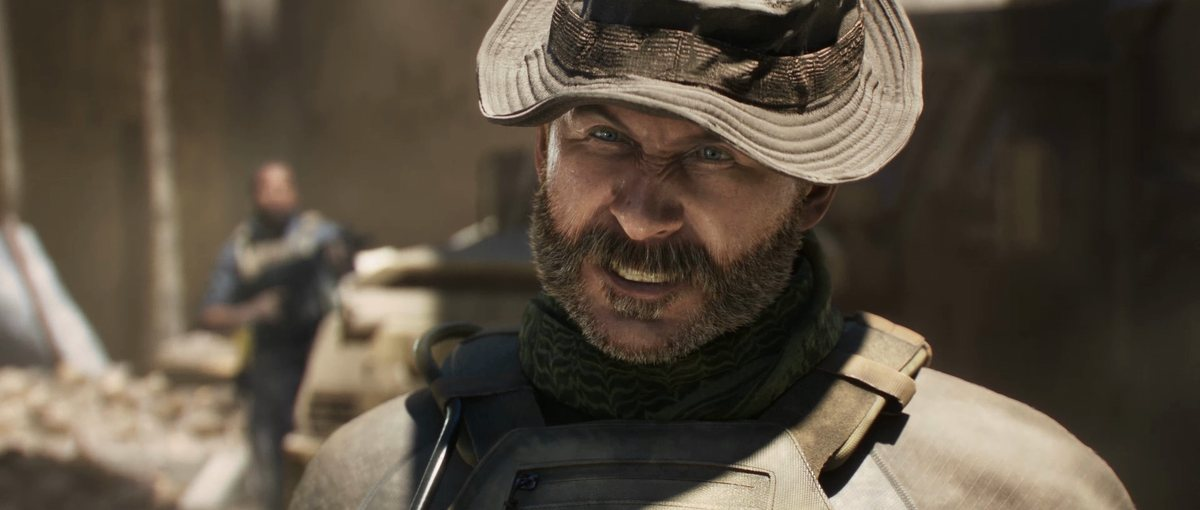
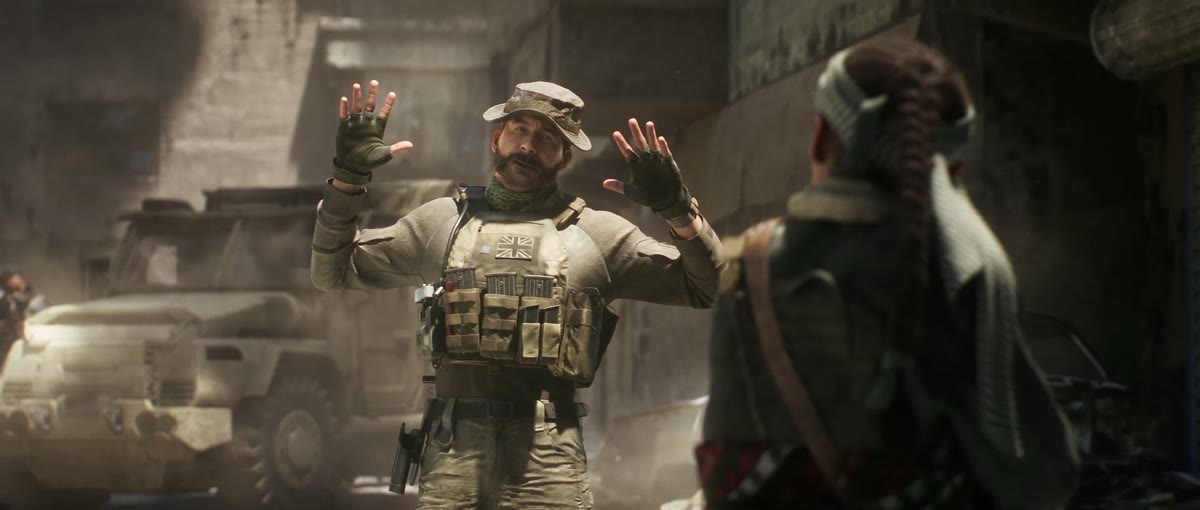
Remove The Village cutscene and change The Lab's cover
The eight-second title card is gone from the site and its release; the
Modern Warfare scenes are numbered again. The Lab shows Price with his
hands up.

diff --git a/cuts-data.js b/cuts-data.js
@@ -11,7 +11,7 @@ const MW_CAMPAIGN_PACKS = [
   "editions": {
    "4K": {
     "editionLabel": "4K",
-    "meta": "30:03 · 7.41 GB · 17 files",
+    "meta": "29:56 · 7.41 GB · 16 files",
     "files": [
      {
       "url": "https://github.com/Qstrx/noctis/releases/download/mw-campaign-scenes/MW1-Campaign-01-Verdansk-4K.mp4",
@@ -134,21 +134,9 @@ const MW_CAMPAIGN_PACKS = [
       "poster": "img/cod/cuts/mw1-10.jpg"
      },
      {
-      "url": "https://github.com/Qstrx/noctis/releases/download/mw-campaign-scenes/MW1-Campaign-11-The-Village-4K.mp4",
-      "name": "11 — The Village",
-      "scene": "11",
-      "run": "0:08",
-      "size": "1.9 MB",
-      "direct": true,
-      "audio": "No audio",
-      "resolution": "3840 × 1634",
-      "fps": "30 fps",
-      "poster": "img/cod/cuts/mw1-11.jpg"
-     },
-     {
       "url": "https://github.com/Qstrx/noctis/releases/download/mw-campaign-scenes/MW1-Campaign-12-St-Petersburg-4K.mp4",
-      "name": "12 — St. Petersburg",
-      "scene": "12",
+      "name": "11 — St. Petersburg",
+      "scene": "11",
       "run": "2:01",
       "size": "528.1 MB",
       "direct": true,
@@ -159,8 +147,8 @@ const MW_CAMPAIGN_PACKS = [
      },
      {
       "url": "https://github.com/Qstrx/noctis/releases/download/mw-campaign-scenes/MW1-Campaign-13-The-Estate-4K.mp4",
-      "name": "13 — The Estate",
-      "scene": "13",
+      "name": "12 — The Estate",
+      "scene": "12",
       "run": "1:45",
       "size": "370.9 MB",
       "direct": true,
@@ -171,8 +159,8 @@ const MW_CAMPAIGN_PACKS = [
      },
      {
       "url": "https://github.com/Qstrx/noctis/releases/download/mw-campaign-scenes/MW1-Campaign-14-The-Lab-4K.mp4",
-      "name": "14 — The Lab",
-      "scene": "14",
+      "name": "13 — The Lab",
+      "scene": "13",
       "run": "3:54",
       "size": "1.04 GB",
       "direct": true,
@@ -183,8 +171,8 @@ const MW_CAMPAIGN_PACKS = [
      },
      {
       "url": "https://github.com/Qstrx/noctis/releases/download/mw-campaign-scenes/MW1-Campaign-15-The-Lab-The-Sacrifice-4K.mp4",
-      "name": "15 — The Lab: The Sacrifice",
-      "scene": "15",
+      "name": "14 — The Lab: The Sacrifice",
+      "scene": "14",
       "run": "1:42",
       "size": "390.9 MB",
       "direct": true,
@@ -195,8 +183,8 @@ const MW_CAMPAIGN_PACKS = [
      },
      {
       "url": "https://github.com/Qstrx/noctis/releases/download/mw-campaign-scenes/MW1-Campaign-16-Epilogue-4K.mp4",
-      "name": "16 — Epilogue",
-      "scene": "16",
+      "name": "15 — Epilogue",
+      "scene": "15",
       "run": "1:59",
       "size": "534.5 MB",
       "direct": true,
@@ -207,8 +195,8 @@ const MW_CAMPAIGN_PACKS = [
      },
      {
       "url": "https://github.com/Qstrx/noctis/releases/download/mw-campaign-scenes/MW1-Campaign-17-Spec-Ops-Opening-4K.mp4",
-      "name": "17 — Spec Ops Opening",
-      "scene": "17",
+      "name": "16 — Spec Ops Opening",
+      "scene": "16",
       "run": "2:13",
       "size": "489.5 MB",
       "direct": true,
@@ -221,7 +209,7 @@ const MW_CAMPAIGN_PACKS = [
    },
    "2K": {
     "editionLabel": "2K",
-    "meta": "30:03 · 4.19 GB · 17 files",
+    "meta": "29:56 · 4.19 GB · 16 files",
     "files": [
      {
       "url": "https://github.com/Qstrx/noctis/releases/download/mw-campaign-scenes/MW1-Campaign-01-Verdansk-2K.mp4",
@@ -344,21 +332,9 @@ const MW_CAMPAIGN_PACKS = [
       "poster": "img/cod/cuts/mw1-10.jpg"
      },
      {
-      "url": "https://github.com/Qstrx/noctis/releases/download/mw-campaign-scenes/MW1-Campaign-11-The-Village-2K.mp4",
-      "name": "11 — The Village",
-      "scene": "11",
-      "run": "0:08",
-      "size": "0.4 MB",
-      "direct": true,
-      "audio": "No audio",
-      "resolution": "2560 × 1088",
-      "fps": "30 fps",
-      "poster": "img/cod/cuts/mw1-11.jpg"
-     },
-     {
       "url": "https://github.com/Qstrx/noctis/releases/download/mw-campaign-scenes/MW1-Campaign-12-St-Petersburg-2K.mp4",
-      "name": "12 — St. Petersburg",
-      "scene": "12",
+      "name": "11 — St. Petersburg",
+      "scene": "11",
       "run": "2:01",
       "size": "295.3 MB",
       "direct": true,
@@ -369,8 +345,8 @@ const MW_CAMPAIGN_PACKS = [
      },
      {
       "url": "https://github.com/Qstrx/noctis/releases/download/mw-campaign-scenes/MW1-Campaign-13-The-Estate-2K.mp4",
-      "name": "13 — The Estate",
-      "scene": "13",
+      "name": "12 — The Estate",
+      "scene": "12",
       "run": "1:45",
       "size": "254.9 MB",
       "direct": true,
@@ -381,8 +357,8 @@ const MW_CAMPAIGN_PACKS = [
      },
      {
       "url": "https://github.com/Qstrx/noctis/releases/download/mw-campaign-scenes/MW1-Campaign-14-The-Lab-2K.mp4",
-      "name": "14 — The Lab",
-      "scene": "14",
+      "name": "13 — The Lab",
+      "scene": "13",
       "run": "3:54",
       "size": "565.7 MB",
       "direct": true,
@@ -393,8 +369,8 @@ const MW_CAMPAIGN_PACKS = [
      },
      {
       "url": "https://github.com/Qstrx/noctis/releases/download/mw-campaign-scenes/MW1-Campaign-15-The-Lab-The-Sacrifice-2K.mp4",
-      "name": "15 — The Lab: The Sacrifice",
-      "scene": "15",
+      "name": "14 — The Lab: The Sacrifice",
+      "scene": "14",
       "run": "1:42",
       "size": "228.1 MB",
       "direct": true,
@@ -405,8 +381,8 @@ const MW_CAMPAIGN_PACKS = [
      },
      {
       "url": "https://github.com/Qstrx/noctis/releases/download/mw-campaign-scenes/MW1-Campaign-16-Epilogue-2K.mp4",
-      "name": "16 — Epilogue",
-      "scene": "16",
+      "name": "15 — Epilogue",
+      "scene": "15",
       "run": "1:59",
       "size": "275.3 MB",
       "direct": true,
@@ -417,8 +393,8 @@ const MW_CAMPAIGN_PACKS = [
      },
      {
       "url": "https://github.com/Qstrx/noctis/releases/download/mw-campaign-scenes/MW1-Campaign-17-Spec-Ops-Opening-2K.mp4",
-      "name": "17 — Spec Ops Opening",
-      "scene": "17",
+      "name": "16 — Spec Ops Opening",
+      "scene": "16",
       "run": "2:13",
       "size": "229.7 MB",
       "direct": true,
@@ -431,7 +407,7 @@ const MW_CAMPAIGN_PACKS = [
    },
    "1080p": {
     "editionLabel": "1080p",
-    "meta": "30:03 · 2.38 GB · 17 files",
+    "meta": "29:56 · 2.38 GB · 16 files",
     "files": [
      {
       "url": "https://github.com/Qstrx/noctis/releases/download/mw-campaign-scenes/MW1-Campaign-01-Verdansk-1080p.mp4",
@@ -554,21 +530,9 @@ const MW_CAMPAIGN_PACKS = [
       "poster": "img/cod/cuts/mw1-10.jpg"
      },
      {
-      "url": "https://github.com/Qstrx/noctis/releases/download/mw-campaign-scenes/MW1-Campaign-11-The-Village-1080p.mp4",
-      "name": "11 — The Village",
-      "scene": "11",
-      "run": "0:08",
-      "size": "0.2 MB",
-      "direct": true,
-      "audio": "No audio",
-      "resolution": "1920 × 816",
-      "fps": "30 fps",
-      "poster": "img/cod/cuts/mw1-11.jpg"
-     },
-     {
       "url": "https://github.com/Qstrx/noctis/releases/download/mw-campaign-scenes/MW1-Campaign-12-St-Petersburg-1080p.mp4",
-      "name": "12 — St. Petersburg",
-      "scene": "12",
+      "name": "11 — St. Petersburg",
+      "scene": "11",
       "run": "2:01",
       "size": "168.0 MB",
       "direct": true,
@@ -579,8 +543,8 @@ const MW_CAMPAIGN_PACKS = [
      },
      {
       "url": "https://github.com/Qstrx/noctis/releases/download/mw-campaign-scenes/MW1-Campaign-13-The-Estate-1080p.mp4",
-      "name": "13 — The Estate",
-      "scene": "13",
+      "name": "12 — The Estate",
+      "scene": "12",
       "run": "1:45",
       "size": "143.5 MB",
       "direct": true,
@@ -591,8 +555,8 @@ const MW_CAMPAIGN_PACKS = [
      },
      {
       "url": "https://github.com/Qstrx/noctis/releases/download/mw-campaign-scenes/MW1-Campaign-14-The-Lab-1080p.mp4",
-      "name": "14 — The Lab",
-      "scene": "14",
+      "name": "13 — The Lab",
+      "scene": "13",
       "run": "3:54",
       "size": "322.9 MB",
       "direct": true,
@@ -603,8 +567,8 @@ const MW_CAMPAIGN_PACKS = [
      },
      {
       "url": "https://github.com/Qstrx/noctis/releases/download/mw-campaign-scenes/MW1-Campaign-15-The-Lab-The-Sacrifice-1080p.mp4",
-      "name": "15 — The Lab: The Sacrifice",
-      "scene": "15",
+      "name": "14 — The Lab: The Sacrifice",
+      "scene": "14",
       "run": "1:42",
       "size": "127.2 MB",
       "direct": true,
@@ -615,8 +579,8 @@ const MW_CAMPAIGN_PACKS = [
      },
      {
       "url": "https://github.com/Qstrx/noctis/releases/download/mw-campaign-scenes/MW1-Campaign-16-Epilogue-1080p.mp4",
-      "name": "16 — Epilogue",
-      "scene": "16",
+      "name": "15 — Epilogue",
+      "scene": "15",
       "run": "1:59",
       "size": "154.0 MB",
       "direct": true,
@@ -627,8 +591,8 @@ const MW_CAMPAIGN_PACKS = [
      },
      {
       "url": "https://github.com/Qstrx/noctis/releases/download/mw-campaign-scenes/MW1-Campaign-17-Spec-Ops-Opening-1080p.mp4",
-      "name": "17 — Spec Ops Opening",
-      "scene": "17",
+      "name": "16 — Spec Ops Opening",
+      "scene": "16",
       "run": "2:13",
       "size": "134.9 MB",
       "direct": true,

diff --git a/quality.html b/quality.html
@@ -49,7 +49,7 @@
       <tr><th scope="row">John Price, Gaz, Ghost, Valeria, The Archer<small>Modern Warfare 4 scene packs</small></th><td data-label="Resolution">4K 3840 × 1634<br>2K 2560 × 1088<br>1080p 1920 × 816</td><td data-label="Frame rate">60 fps</td><td data-label="Notes">4K, cinematic framing</td></tr>
       <tr><th scope="row">More clips<small>Gaz and Soap</small></th><td data-label="Resolution">3840 × 2160</td><td data-label="Frame rate">60 fps</td><td data-label="Notes">4K, with the original black bars</td></tr>
       <tr><th scope="row">Modern Warfare 4 cutscenes<small>22 campaign scenes and the recap</small></th><td data-label="Resolution">4K 3840 × 1634<br>2K 2560 × 1090<br>1080p 1920 × 816</td><td data-label="Frame rate">30 or 60 fps, as in the game</td><td data-label="Notes">4K keeps the original video without another encode; 2K and 1080p are high-quality smaller conversions</td></tr>
-      <tr><th scope="row">Modern Warfare I–III cutscenes<small>61 campaign scenes, one file each</small></th><td data-label="Resolution">4K 3840 × 1634<br>2K 2560 × 1088<br>1080p 1920 × 816</td><td data-label="Frame rate">30 fps, one scene at 60 fps</td><td data-label="Notes">4K keeps the game’s video without another encode</td></tr>
+      <tr><th scope="row">Modern Warfare I–III cutscenes<small>60 campaign scenes, one file each</small></th><td data-label="Resolution">4K 3840 × 1634<br>2K 2560 × 1088<br>1080p 1920 × 816</td><td data-label="Frame rate">30 fps, one scene at 60 fps</td><td data-label="Notes">4K keeps the game’s video without another encode</td></tr>
       <tr><th scope="row">Modern Warfare I–III campaigns<small>Whole campaigns in one file</small></th><td data-label="Resolution">2560 × 1440</td><td data-label="Frame rate">60 fps</td><td data-label="Notes">Files open on Google Drive; use the download arrow on the file page</td></tr>
       <tr><th scope="row">Modern Warfare 4 trailers<small>Three official trailers</small></th><td data-label="Resolution">4K, up to 3840 × 2160</td><td data-label="Frame rate">60 fps</td><td data-label="Notes"></td></tr>
     </tbody>

diff --git a/cod.html b/cod.html
@@ -28,10 +28,10 @@
 <script src="ui.js?v=2" defer></script>
 <script src="archive-data.js?v=13" defer></script>
 <script src="mw4-data.js?v=13" defer></script>
-<script src="cuts-data.js?v=4" defer></script>
+<script src="cuts-data.js?v=5" defer></script>
 <script src="mw4-missions.js?v=20" defer></script>
 <script src="shelf.js?v=9" defer></script>
-<script src="cod-page.js?v=32" defer></script>
+<script src="cod-page.js?v=33" defer></script>
 <script src="credit.js?v=11" defer></script>
 <script src="site.js?v=22" defer></script>
 <script src="motion.js?v=11" defer></script>

diff --git a/cod-page.js b/cod-page.js
@@ -148,7 +148,7 @@
   });
   // Full cutscenes: Modern Warfare to MW III, then the MW4 campaign.
   const cuts = VIEWS.find(view => view.id === 'cutscenes');
-  cuts.meta = '4 games · 83 scenes';
+  cuts.meta = `4 games · ${22 + ['mw1', 'mw2', 'mw3'].reduce((sum, id) => sum + byId(`${id}-campaign-individual`).files.length, 0)} scenes`;
   cuts.count = 'MW to MW4';
   // Trailers: their own sheet.
   const trailers = VIEWS.find(view => view.id === 'trailers');
